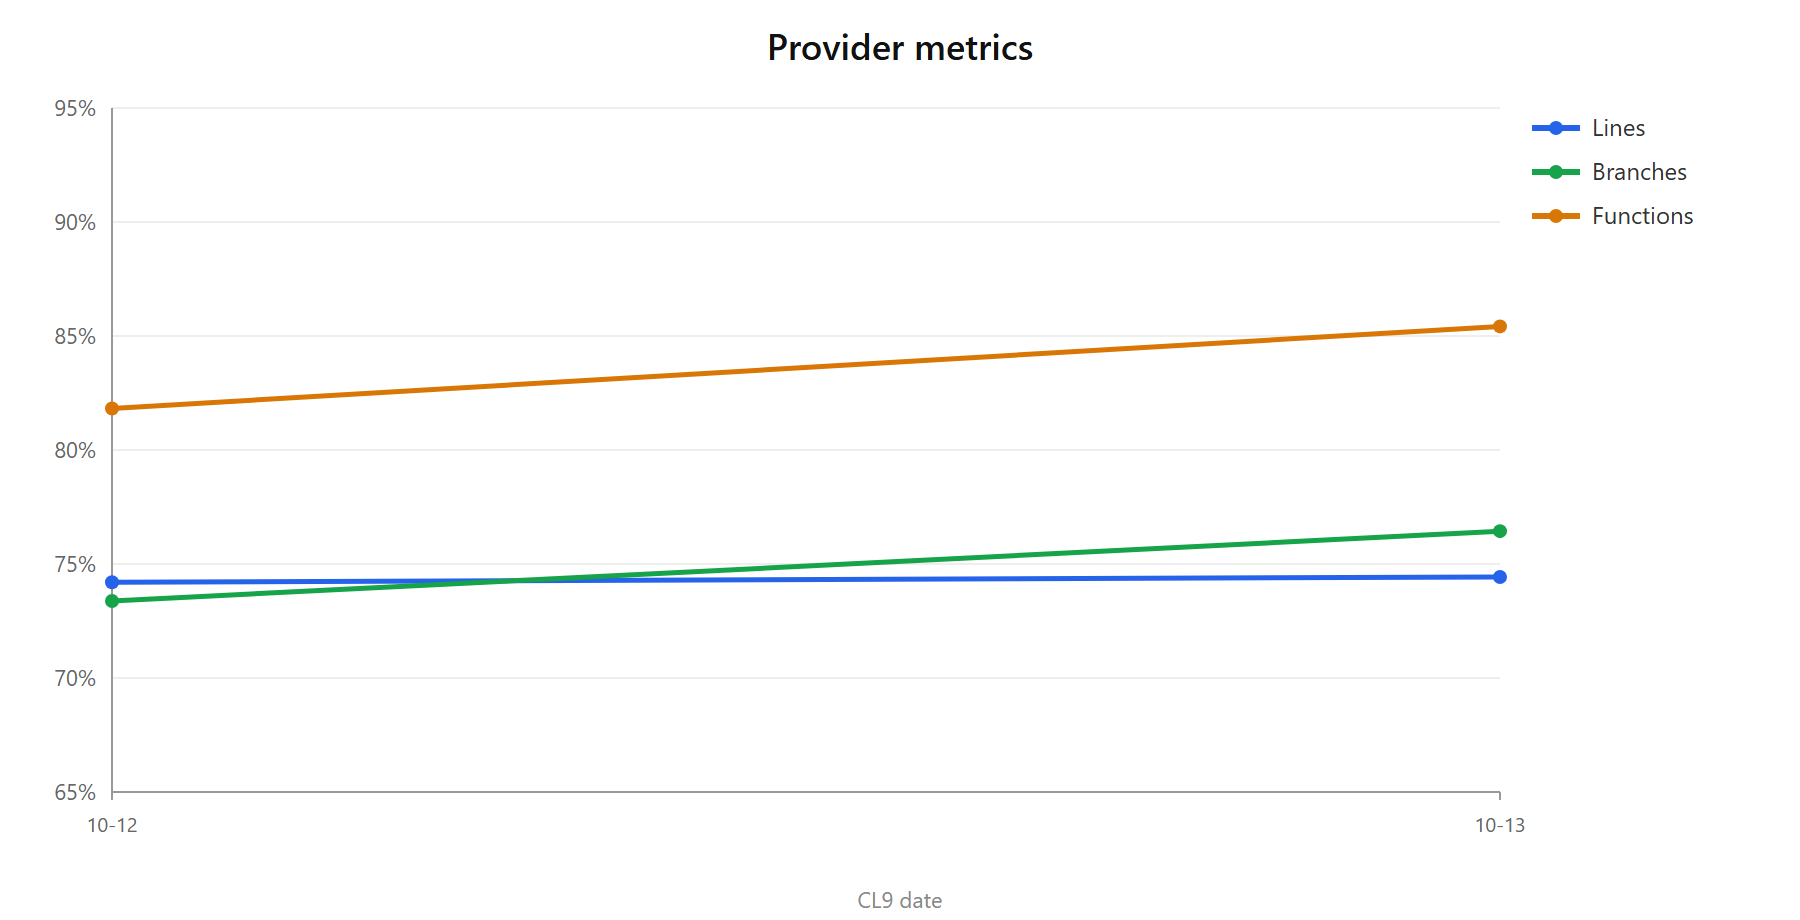
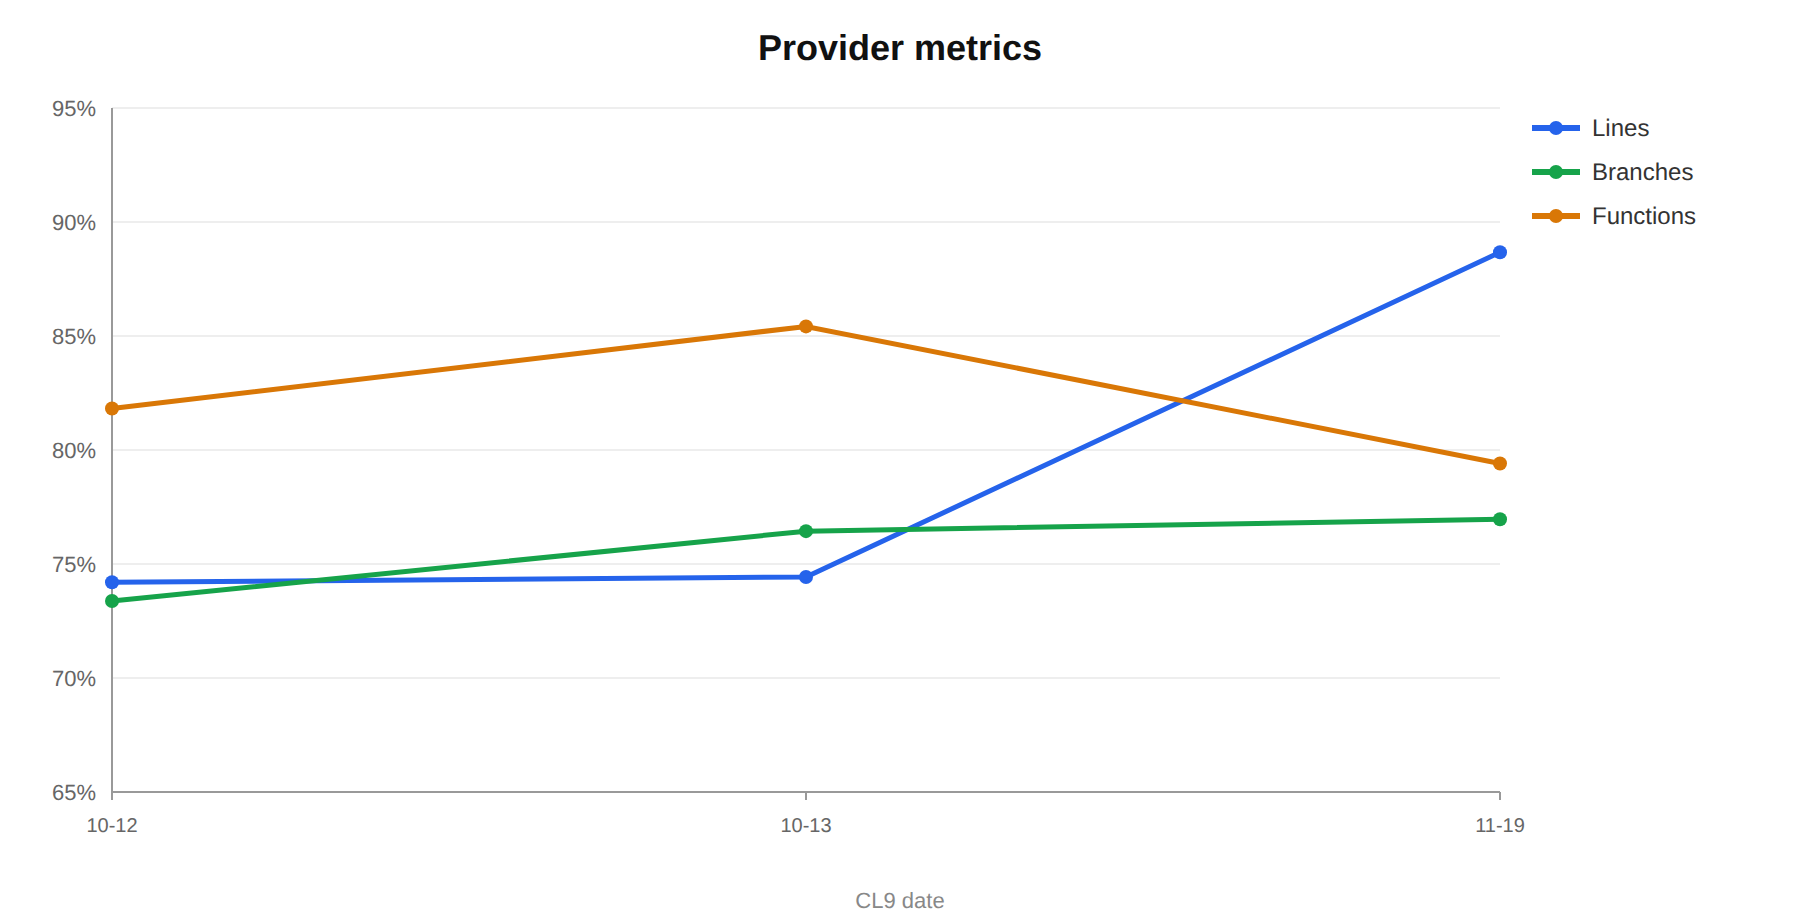
fix(metrics): the cluster's network rate no longer fires on start nor with a new node (provider 0.1.3)
getClusterUsage summed the cumulative counters of every node read now and subtracted only those of
the nodes in the previous read: the first read after starting, and every node that appeared,
counted all it had sent since boot as one interval — hundreds of Gbps, which Agora learned. Each
node is now subtracted from its own previous read, and counterDelta gives 0 without a previous
reading or with a counter that went backwards (a node rebooted). The same for the per-pod and
per-container rates, which went negative when a container restarted.

diff --git a/providers/metrics/tests/back/provider.test.ts b/providers/metrics/tests/back/provider.test.ts
@@ -3,7 +3,7 @@ import assert from 'node:assert/strict'
 import express from 'express'
 import { AddressInfo } from 'net'
 import { KwirthData, IProviderSubscriber } from '@kwirthmagnify/kwirth-common-back'
-import { MetricsProvider, IMetricsCluster } from '../../src/back/index'
+import { MetricsProvider, IMetricsCluster, counterDelta } from '../../src/back/index'
 
 /*
     The metrics provider along the real route: a fake kubelet answers fetch() (cAdvisor text and
@@ -25,6 +25,7 @@ interface IKubelet {
     txEth1: number           // and on eth1: a pod metric seen twice adds up
     usageNanoCores: number
     failNodes: string[]      // IPs whose kubelet does not answer (in cluster the kubelet is reached by IP)
+    nodeNet: Record<string, number>   // by IP: the node's cumulative network bytes in /stats/summary (rx = tx); 0 if absent
     lastOptions?: RequestInit
 }
 
@@ -42,12 +43,15 @@ const cadvisor = (k: IKubelet): string => [
     ''
 ].join('\n')
 
-const summary = (k: IKubelet) => ({
+const netOf = (k: IKubelet, url: string): number =>
+    Object.entries(k.nodeNet).find(([ip]) => url.includes(`//${ip}:`))?.[1] ?? 0
+
+const summary = (k: IKubelet, url = '') => ({
     node: {
         nodeName: NODE,
         memory: { usageBytes: 300, availableBytes: 700 },
         cpu: { usageNanoCores: k.usageNanoCores },
-        network: { interfaces: [{ txBytes: 0, rxBytes: 0, txErrors: 0, rxErrors: 0 }] }
+        network: { interfaces: [{ txBytes: netOf(k, url), rxBytes: netOf(k, url), txErrors: 0, rxErrors: 0 }] }
     },
     pods: [{}, {}]
 })
@@ -60,12 +64,12 @@ const fakeKubelet = (k: IKubelet): void => {
         k.lastOptions = options
         if (k.failNodes.some(ip => String(url).includes(`//${ip}:`))) throw new TypeError('fetch failed')
         if (String(url).endsWith('/metrics/cadvisor')) return new Response(cadvisor(k), { status: 200 })
-        if (String(url).endsWith('/stats/summary')) return new Response(JSON.stringify(summary(k)), { status: 200 })
+        if (String(url).endsWith('/stats/summary')) return new Response(JSON.stringify(summary(k, String(url))), { status: 200 })
         return new Response('', { status: 404 })
     }) as typeof fetch
 }
 
-const newKubelet = (): IKubelet => ({ cpuSeconds: 10, txEth0: 0, txEth1: 0, usageNanoCores: 2e9, failNodes: [] })
+const newKubelet = (): IKubelet => ({ cpuSeconds: 10, txEth0: 0, txEth1: 0, usageNanoCores: 2e9, failNodes: [], nodeNet: {} })
 
 const kwirthData = (over: Partial<Record<string, unknown>> = {}): KwirthData => ({
     clusterType: 'kubernetes', inCluster: true, isDesktop: false, metricsInterval: INTERVAL, ...over
@@ -346,4 +350,97 @@ test('starting the clock twice leaves ONE clock', async () => {
     provider.stopMetricsInterval()
     // one clock of 50 ms gives 4 ticks in 230 ms; two would give 8
     assert.ok(ticks <= 5, `${ticks} ticks: two clocks are running`)
+})
+
+// ── The cluster's network rate against restarts, new nodes and reboots (0.1.3, 2026-11-19) ─────────
+//
+// The cluster's tx/rx summed the CUMULATIVE counters of every node read now and subtracted only those of the
+// nodes it had read before: the first read after starting, and every node that appeared, counted all it had
+// sent since boot as one interval. In an AKS, each restart of Kwirth gave a "rate" of hundreds of Gbps, and
+// Agora learned it (z 53,733 on the cluster's network). Now each node is subtracted from ITS previous read.
+
+const MIB = 1024 * 1024
+const N2 = 'node-b'   // another IP than NODE's: nodeInfo builds the IP from the name's length
+
+test('counterDelta: no previous reading or a counter that went backwards say nothing (0); otherwise the growth', () => {
+    assert.equal(counterDelta(500, undefined), 0)
+    assert.equal(counterDelta(100, 900), 0)
+    assert.equal(counterDelta(900, 900), 0)
+    assert.equal(counterDelta(900, 100), 800)
+})
+
+test('🔴 the first read after starting gives a network rate of 0, not every node\'s counter since boot', async () => {
+    const kubelet = newKubelet()
+    kubelet.nodeNet = { [nodeInfo(NODE).ip]: 500_000 * MIB }   // half a TiB since the node booted
+    fakeKubelet(kubelet)
+    const provider = newProvider()
+    const { readings, subscriber } = recorder()
+    await provider.addSubscriber(subscriber)
+
+    await provider.tick()
+    assert.equal(readings[0].cluster.txmbps, 0)
+    assert.equal(readings[0].cluster.rxmbps, 0)
+
+    // 15 MiB more in 15 s: 1 MiB/s
+    kubelet.nodeNet[nodeInfo(NODE).ip] += 15 * MIB
+    await provider.tick()
+    assert.equal(readings[1].cluster.txmbps, 1)
+    assert.equal(readings[1].cluster.rxmbps, 1)
+})
+
+test('🔴 a node that appears adds nothing on its first read; the nodes already there keep their rate', async () => {
+    const kubelet = newKubelet()
+    kubelet.nodeNet = { [nodeInfo(NODE).ip]: 0, [nodeInfo(N2).ip]: 800_000 * MIB }
+    kubelet.failNodes = [nodeInfo(N2).ip]   // not there yet
+    fakeKubelet(kubelet)
+    const provider = newProvider(clusterInfoWith([NODE, N2]))
+    const { readings, subscriber } = recorder()
+    await provider.addSubscriber(subscriber)
+
+    await provider.tick()
+    kubelet.failNodes = []                   // it appears, with its counter since boot
+    kubelet.nodeNet[nodeInfo(NODE).ip] += 30 * MIB
+    await provider.tick()
+    assert.deepEqual(readings[1].nodes.map(n => n.name).sort(), [N2, NODE].sort())
+    assert.equal(readings[1].cluster.txmbps, 2)   // only NODE's 30 MiB in 15 s
+
+    kubelet.nodeNet[nodeInfo(NODE).ip] += 15 * MIB
+    kubelet.nodeNet[nodeInfo(N2).ip] += 15 * MIB
+    await provider.tick()
+    assert.equal(readings[2].cluster.txmbps, 2)   // now both count: 1 + 1
+})
+
+test('🔴 a node whose counter went backwards (it rebooted) adds 0, never a negative rate', async () => {
+    const kubelet = newKubelet()
+    kubelet.nodeNet = { [nodeInfo(NODE).ip]: 0, [nodeInfo(N2).ip]: 900 * MIB }
+    fakeKubelet(kubelet)
+    const provider = newProvider(clusterInfoWith([NODE, N2]))
+    const { readings, subscriber } = recorder()
+    await provider.addSubscriber(subscriber)
+
+    await provider.tick()
+    kubelet.nodeNet[nodeInfo(NODE).ip] += 15 * MIB
+    kubelet.nodeNet[nodeInfo(N2).ip] = 3 * MIB   // rebooted: starts again from 0
+    await provider.tick()
+    assert.equal(readings[1].cluster.txmbps, 1)
+    assert.equal(readings[1].cluster.rxmbps, 1)
+})
+
+test('a pod counter that went backwards (its container restarted) gives a rate of 0, not a negative one', async () => {
+    const kubelet = newKubelet()
+    kubelet.txEth0 = 9_000_000
+    fakeKubelet(kubelet)
+    const provider = newProvider()
+    await provider.startProvider()
+    provider.stopMetricsInterval()
+    const { readings, subscriber } = recorder()
+    await provider.addSubscriber(subscriber, { pod: true, container: true, machine: true })
+
+    await provider.tick()
+    kubelet.txEth0 = 1_500_000
+    kubelet.cpuSeconds = 2   // the container restarted too
+    await provider.tick()
+    const node = readings[1].nodes[0]
+    assert.equal(node.podMetricValues.get('shop/web-1/kwirth_container_transmit_mbps')?.value, 0)
+    assert.equal(node.containerMetricValues.get('shop/web-1/app/kwirth_container_cpu_percentage')?.value, 0)
 })

diff --git a/providers/metrics/src/back/index.ts b/providers/metrics/src/back/index.ts
@@ -52,6 +52,16 @@ const describeFetchError = (err: unknown): string => {
     return parts.join(' ← ')
 }
 
+/*
+    0.1.3 · what a cumulative counter grew between two reads. Without a previous reading (the first read after
+    starting, a node or a pod that just appeared) or when it went BACKWARDS (a node rebooted, a container
+    restarted: the counter starts again from 0), nothing is known about the interval: 0. Before, the first read
+    and every new node counted their whole counter since boot as one interval — on a cluster's network, after
+    each restart of Kwirth, a "rate" of hundreds of Gbps that poisoned whoever learned from it.
+*/
+export const counterDelta = (now: number, prev: number | undefined): number =>
+    prev === undefined || now < prev ? 0 : now - prev
+
 type TMetricValues = Map<string, { value: number, timestamp: number }>
 // The labels of a cAdvisor line, by name
 type TLabels = Record<string, string>
@@ -168,8 +178,8 @@ export class MetricsProvider implements IProvider {
     public getClusterUsage = (): IMetricsClusterUsage => {
         let cpuUsed = 0, cpuNumber = this.vcpus
         let memUsed = 0, memTotal = 0
+        // bytes sent / received in the interval, node by node against ITS previous read (see counterDelta)
         let tx = 0, rx = 0
-        let prevtx = 0, prevrx = 0
         if (this.metricsList && this.lastRead) {
             try {
                 for (let lastNodeRead of this.lastRead.nodes) {
@@ -177,24 +187,15 @@ export class MetricsProvider implements IProvider {
                         memUsed += lastNodeRead.summary.memory.usageBytes
                         memTotal += lastNodeRead.summary.memory.usageBytes + lastNodeRead.summary.memory.availableBytes
                         cpuUsed += lastNodeRead.summary.cpu.usageNanoCores
-                        tx += lastNodeRead.summary.network.txBytes
-                        rx += lastNodeRead.summary.network.rxBytes
-
-                        if (this.prevRead) {
-                            let prevNodeRead = this.prevRead.nodes.find(n => n.name === lastNodeRead.name)
-                            if (prevNodeRead) {
-                                prevtx += prevNodeRead.summary.network.txBytes
-                                prevrx += prevNodeRead.summary.network.rxBytes
-                            }
-                        }
+                        const prevSummary = this.prevRead?.nodes.find(n => n.name === lastNodeRead.name)?.summary
+                        tx += counterDelta(lastNodeRead.summary.network.txBytes, prevSummary?.network.txBytes)
+                        rx += counterDelta(lastNodeRead.summary.network.rxBytes, prevSummary?.network.rxBytes)
                     }
                 }
                 if (memTotal === 0) memTotal = 1
                 if (cpuNumber === 0) cpuNumber = 1
-                let tottx = tx - prevtx
-                let totrx = rx - prevrx
-                tottx = (tottx / 1024 / 1024) / this.metricsInterval
-                totrx = (totrx / 1024 / 1024) / this.metricsInterval
+                const tottx = (tx / 1024 / 1024) / this.metricsInterval
+                const totrx = (rx / 1024 / 1024) / this.metricsInterval
                 const pods = this.lastRead.nodes.reduce((sum, n) => sum + (n.summary?.pods?.length ?? 0), 0)
                 const maxPods = Array.from(this.clusterInfo.nodes.values()).reduce((sum, n) => sum + n.maxPods, 0)
                 return {
@@ -705,20 +706,20 @@ export class MetricsProvider implements IProvider {
                     }
                     case 'container_cpu_usage_seconds_total': {
                         const prevEntry = prevNode?.containerMetricValues.get(key)
-                        const delta = prevEntry !== undefined ? entry.value - prevEntry.value : 0
+                        const delta = counterDelta(entry.value, prevEntry?.value)
                         const pct = totalVcpus > 0 && interval > 0 ? (delta / interval) / totalVcpus * 100 : 0
                         containerSynthetics.push([`${prefix}kwirth_container_cpu_percentage`, { value: pct, timestamp: entry.timestamp }])
                         break
                     }
                     case 'container_fs_writes_bytes_total': {
                         const prevEntry = prevNode?.containerMetricValues.get(key)
-                        const delta = prevEntry !== undefined ? entry.value - prevEntry.value : 0
+                        const delta = counterDelta(entry.value, prevEntry?.value)
                         containerSynthetics.push([`${prefix}kwirth_container_write_mbps`, { value: interval > 0 ? delta / interval / 1_000_000 : 0, timestamp: entry.timestamp }])
                         break
                     }
                     case 'container_fs_reads_bytes_total': {
                         const prevEntry = prevNode?.containerMetricValues.get(key)
-                        const delta = prevEntry !== undefined ? entry.value - prevEntry.value : 0
+                        const delta = counterDelta(entry.value, prevEntry?.value)
                         containerSynthetics.push([`${prefix}kwirth_container_read_mbps`, { value: interval > 0 ? delta / interval / 1_000_000 : 0, timestamp: entry.timestamp }])
                         break
                     }
@@ -735,13 +736,13 @@ export class MetricsProvider implements IProvider {
                 switch (metricName) {
                     case 'container_network_transmit_bytes_total': {
                         const prevEntry = prevNode?.podMetricValues.get(key)
-                        const delta = prevEntry !== undefined ? entry.value - prevEntry.value : 0
+                        const delta = counterDelta(entry.value, prevEntry?.value)
                         podSynthetics.push([`${prefix}kwirth_container_transmit_mbps`, { value: interval > 0 ? delta / interval / 1_000_000 : 0, timestamp: entry.timestamp }])
                         break
                     }
                     case 'container_network_receive_bytes_total': {
                         const prevEntry = prevNode?.podMetricValues.get(key)
-                        const delta = prevEntry !== undefined ? entry.value - prevEntry.value : 0
+                        const delta = counterDelta(entry.value, prevEntry?.value)
                         podSynthetics.push([`${prefix}kwirth_container_receive_mbps`, { value: interval > 0 ? delta / interval / 1_000_000 : 0, timestamp: entry.timestamp }])
                         break
                     }

diff --git a/providers/metrics/docs/qa/test-metrics-history.md b/providers/metrics/docs/qa/test-metrics-history.md
@@ -16,5 +16,6 @@
 
 | Fecha | Cierre | Harness | Cobertura (líneas / ramas / funcs) | e2e | Notas |
 |---|---|---|---|---|---|
+| 2026-11-19 | `provider/metrics@0.1.3` — la red del cluster ya no se dispara al arrancar ni con un nodo nuevo | **21** ✅ (+5: `counterDelta`, primera lectura, nodo que aparece, nodo reiniciado, contador de pod hacia atrás) | **88.67 % / 76.96 % / 79.41 %** | no lanzado (cambio de cálculo, cubierto por el harness; validado en el dev: tras reiniciar el back, 7 muestras de red del cluster con z entre −0,08 y 2,80) | **Visto en el AKS con el asistente de Agora 0.4.18**: la red del cluster con z de **53 733** (rx) y **25 627** (tx). `getClusterUsage` sumaba los contadores ACUMULADOS de todos los nodos de la lectura y restaba solo los de los nodos que ya estaban en la anterior: la **primera lectura tras arrancar** (cada reinicio del pod, varios ese día por actualizaciones de plugins) y **cada nodo nuevo** (autoescalado, parcheo de AKS) contaban todo lo enviado desde el arranque del nodo como un solo intervalo — cientos de Gbps —, y Agora lo aprendía en su baseline. Ahora cada nodo se resta de **su** lectura anterior y `counterDelta` da 0 sin lectura previa o con el contador hacia atrás (nodo reiniciado). Lo mismo en las tasas por pod y contenedor, que daban **negativas** al reiniciarse un contenedor. Tras instalarlo: *Forget → This object* sobre el cluster en Agora, para soltar la baseline contaminada |
 | 2026-10-13 | `provider/metrics@0.1.1` — las lecturas ya no se encadenan ni se cuelgan | **16** ✅ (+5: kubelet que no responde, nodos en paralelo, suelo del timeout, aviso por racha, un solo reloj) | **74.43 % / 76.44 % / 85.42 %** | 2 specs · 8 casos: 7 ✅ · 1 ⏭ (`02-magnify-without-provider`, que se salta con el provider instalado) | **Visto en el dev, toda la tarde**: *"Still loading cluster metrics"* en cada tick. La causa principal era el **intervalo del dev a 3 s** (guardado así en los settings, probablemente de una prueba en caliente): una lectura de dos nodos (~300 KB de cAdvisor cada uno) no cabe en 3 s. Puesto a 15 s, a petición del usuario. Lo que se arregla en el provider: **(1)** cada llamada al kubelet tiene un **timeout** —el 40 % del intervalo, con un **suelo de 10 s** para que un intervalo corto no deje sin métricas, como pasó con la primera versión de este arreglo, que con 3 s cortaba a 1,2 s—, que corta también el cuerpo; al vencer, el error dice **qué nodo y qué endpoint**. Antes una conexión colgada esperaba los 5 minutos de undici. **(2)** Los nodos se leen **en paralelo** (`allSettled`): una lectura dura lo que el nodo más lento, no la suma. **(3)** *Still loading* sale **una vez por racha**, no en cada tick, y al acabar la lectura otro aviso dice cuánto tardó y cuántos ticks se saltaron: la cifra contra la que ajustar el intervalo. **(4)** `startMetricsInterval` para el reloj anterior antes de arrancar otro. La lógica venía igual del core. El aviso por pod del canal (`No node … asset skipped`) es del plugin metrics, no de este provider: sigue en su backlog |
 | 2026-10-12 | P1 — el provider `metrics` sale del core y pasa a extensión (`provider/metrics@0.1.0`) | **11** ✅ (3 de "sin token", mudados del core · 8 nuevos) | **74.20 % / 73.38 % / 81.82 %** | 2 specs · 8 casos ✅ (`02-magnify-without-provider` se salta solo si el provider está instalado; lanzado sin él: ✅) — y el e2e del plugin metrics, 10/10 contra esta extensión | **Primera versión como extensión.** El código del provider del core se muda con estos cambios: **(1)** sus rutas (lista de métricas y uso del cluster) pasan del router público `/provider/metrics` —protegido con la validación de claves del core, que una extensión no puede importar— al **`configRouter`**, que el core monta detrás del accessKey en `/core/providerconfig/metrics`; el front prueba la ruta nueva y, si recibe 404, la antigua (clusters remotos con versiones anteriores). La ruta `/config` (GET/POST del intervalo) no se porta: nadie la llamaba y el intervalo vive en los settings del core. **(2)** Ya no escribe `clusterInfo.vcpus`/`memory`: el core los calcula de `node.status.capacity`. **(3)** El intervalo lo lee de `kwirthData.metricsInterval` en cada tick —el core escribe ahí al guardar los settings, y es el mismo objeto que recibe el provider— y se reprograma si cambia, sin contrato nuevo. **(4)** Sin Kubernetes detrás (`clusterType !== 'kubernetes'`) avisa una vez y no arranca: antes era el core quien lo desregistraba. **(5)** 🔴 **Bug latente del desktop**: con `@kubernetes/client-node` 1.x `applyToFetchOptions` **devuelve** las opciones, y el core las tiraba, así que la lectura salía sin credenciales; ahora se usan — test dedicado. **(6)** Un suscriptor que lanza ya no corta el reparto a los demás. **(7)** Magnify (core) avisa en su overview cuando el provider no está instalado, en vez de pintar tres gráficas vacías: su respuesta a `USAGE` lleva `metricsProvider`. `express` se resuelve contra la instancia del core (`global.__kwirth_back__.express`), como host-metrics: el bundle pesa 30 KB. |
